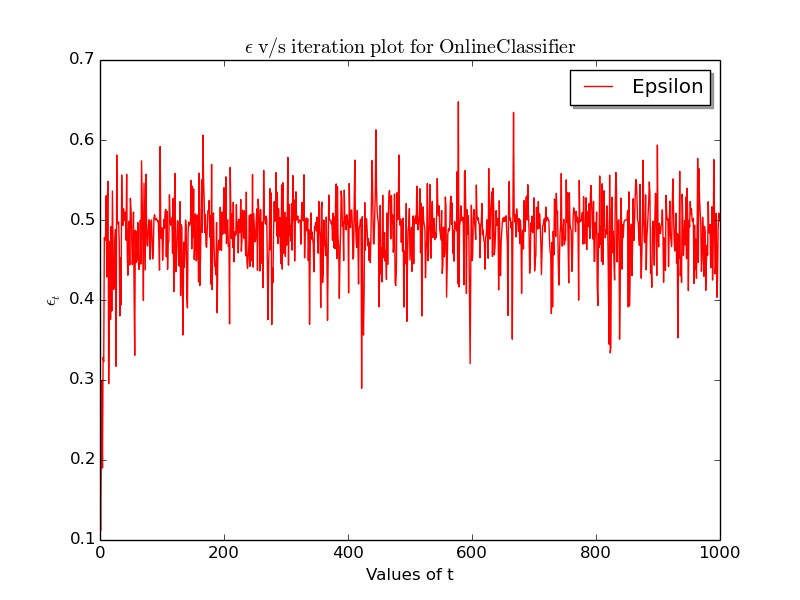
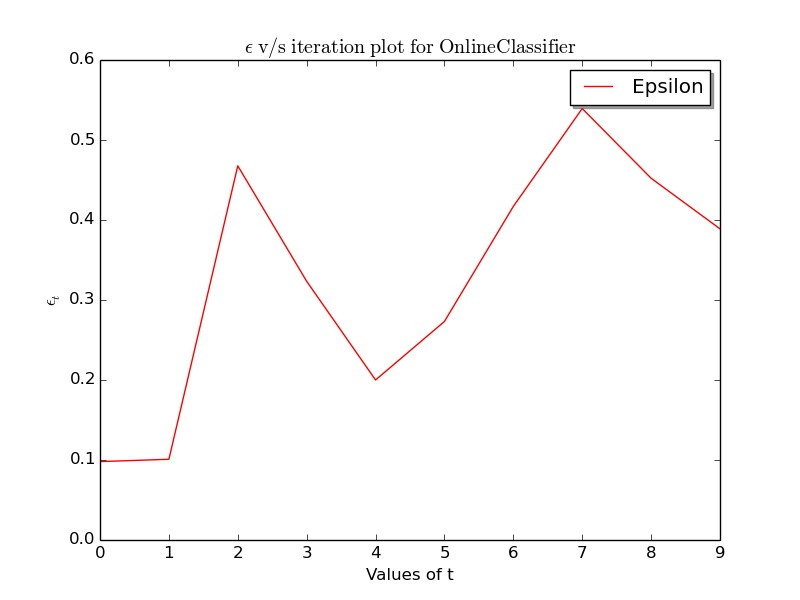
Test runs with Confusion Matrix Added

diff --git a/hw3/hw3_submission.py b/hw3/hw3_submission.py
@@ -19,7 +19,7 @@ import matplotlib.cm as cm
 PATH = "./cancer_csv/"
 IMAGE_PATH = PATH+'../images/'
 NUM_TEST = 183  # Define the number of test cases
-T = 1000	# number of iterations of the problem
+T = 10	# number of iterations of the problem
 
 def getData(file):
     reader=csv.reader(open(file,"rb"),delimiter=',')
@@ -35,9 +35,10 @@ X_train= X[NUM_TEST:,:]
 y_test = y[:NUM_TEST,:]
 y_train= y[NUM_TEST:,:]
 
-NONE = 00
-BINARY = 1
-ONLINE = 2
+NO_BIN = 0
+NO_ONL = 1
+BINARY = 2
+ONLINE = 3
 
 def genC(n, w):
 	w_cumul	= w.cumsum()
@@ -155,6 +156,8 @@ def Adaboost(X_train, y_train, X_test, y_test, T ,classifier, name):
     
     f_boost_te = 0
     f_boost_tr = 0
+    if classifier == NO_BIN or classifier == NO_ONL:
+	T = 1
     for i in range(0,T):
         Bt = genC(n,pt)
         #print Bt
@@ -166,9 +169,11 @@ def Adaboost(X_train, y_train, X_test, y_test, T ,classifier, name):
         elif classifier == ONLINE:
             classifier_name = "Online Classifier"
             w = OnlineClassifier(X_bt, y_bt)
-        elif classifier == NONE:
+        elif classifier == NO_BIN:
             w = BinaryClassifier(X_train, y_train)
-            
+        elif classifier == NO_ONL:
+            w = OnlineClassifier(X_train, y_train)
+    
         w_list.append(w)
         f_train = calc_ft(X_train, w, classifier)
         f_test = calc_ft(X_test, w, classifier)
@@ -190,6 +195,11 @@ def Adaboost(X_train, y_train, X_test, y_test, T ,classifier, name):
         err_test = calcErr(f_boost_test, y_test)
         err_test_list.append(err_test)
 
+	if classifier == NO_ONL or classifier== NO_BIN:
+		C = conMat(f_boost_test, y_test)
+		print "\t +1\t -1"
+		print "+1\t %d\t %d" %(C[1,1],C[1,9])
+		print "-1\t %d\t %d" %(C[9,1], C[9,9])
         f_boost_tr = f_boost_tr + (alpha*f_train)
         f_boost_train = np.sign(f_boost_tr)
         
@@ -202,31 +212,34 @@ def Adaboost(X_train, y_train, X_test, y_test, T ,classifier, name):
 #    print "alpha_list", alpha_list
 #    print "training Error:", err_train_list
 #    print "testing Error:", err_test_list
-    plt.clf()
-    plt.plot(err_train_list, 'r-', label="Training error")
-    plt.plot(err_test_list, 'b-', label="Testing Error")    
-    plt.xlabel("Values of t")
-    plt.ylabel("Error Values")
-    plt.title("Error v/s iteration plot for "+classifier_name)
-    plt.legend(loc='upper right', shadow=True)
-    plt.savefig(name)
+    if classifier == BINARY or classifier == ONLINE:	
+	plt.clf()
+    	plt.plot(err_train_list, 'r-', label="Training error")
+    	plt.plot(err_test_list, 'b-', label="Testing Error")    
+    	plt.xlabel("Values of t")
+    	plt.ylabel("Error Values")
+    	plt.title("Error v/s iteration plot for "+classifier_name)
+    	plt.legend(loc='upper right', shadow=True)
+    	plt.savefig(name)
 
-    plt.clf()
-    plt.plot(alpha_list, 'r-', label="Alpha")
-    plt.xlabel("Values of t")
-    plt.ylabel(r"$\alpha_{t}$")
-    plt.title(r"$\mathrm{\alpha\ v/s\ iteration\ plot\ for\ %s}$"%classifier_name)
-    plt.legend(loc='upper right', shadow=True)
-    plt.savefig(name[:-9]+"alpha_plot.jpg")
+	plt.clf()
+    	plt.plot(alpha_list, 'r-', label="Alpha")
+    	plt.xlabel("Values of t")
+    	plt.ylabel(r"$\alpha_{t}$")
+    	plt.title(r"$\mathrm{\alpha\ v/s\ iteration\ plot\ for\ %s}$"%classifier_name)
+    	plt.legend(loc='upper right', shadow=True)
+    	plt.savefig(name[:-9]+"alpha_plot.jpg")
 
-    plt.clf()
-    plt.plot(eps_list, 'r-', label="Epsilon")
-    plt.xlabel("Values of t")
-    plt.ylabel(r"$\epsilon_{t}$")
-    plt.title(r"$\mathrm{\epsilon\ v/s\ iteration\ plot\ for\ %s}$"%classifier_name)
-    plt.legend(loc='upper right', shadow=True)
-    plt.savefig(name[:-9]+"epsilon_plot.jpg")
-        
+    	plt.clf()
+    	plt.plot(eps_list, 'r-', label="Epsilon")
+    	plt.xlabel("Values of t")
+    	plt.ylabel(r"$\epsilon_{t}$")
+    	plt.title(r"$\mathrm{\epsilon\ v/s\ iteration\ plot\ for\ %s}$"%classifier_name)
+    	plt.legend(loc='upper right', shadow=True)
+    	plt.savefig(name[:-9]+"epsilon_plot.jpg")
+
+    else:
+	print "\n",1-err_test_list[0], " is the accuracy of the unboosted classifier."
     
 def p1():
     print "Part 1:\n"
@@ -248,12 +261,13 @@ def p2():
     print "Part 2:\n"
     classifier = BINARY
     Adaboost(X_train, y_train, X_test, y_test, T , classifier, IMAGE_PATH+"binary_classifier_error.jpg")
-    
+    Adaboost(X_train, y_train, X_test, y_test, T , NO_BIN, IMAGE_PATH+"binary_classifier_error.jpg")    
     
 def p3():
     print "Part 3:\n"
     classifier = ONLINE
     Adaboost(X_train, y_train, X_test, y_test, T , classifier, IMAGE_PATH+"p3_error.jpg")
+    Adaboost(X_train, y_train, X_test, y_test, T , NO_ONL, IMAGE_PATH+"online_classifier_error.jpg")
     
 def main():
     print "Beginning Execution..."
